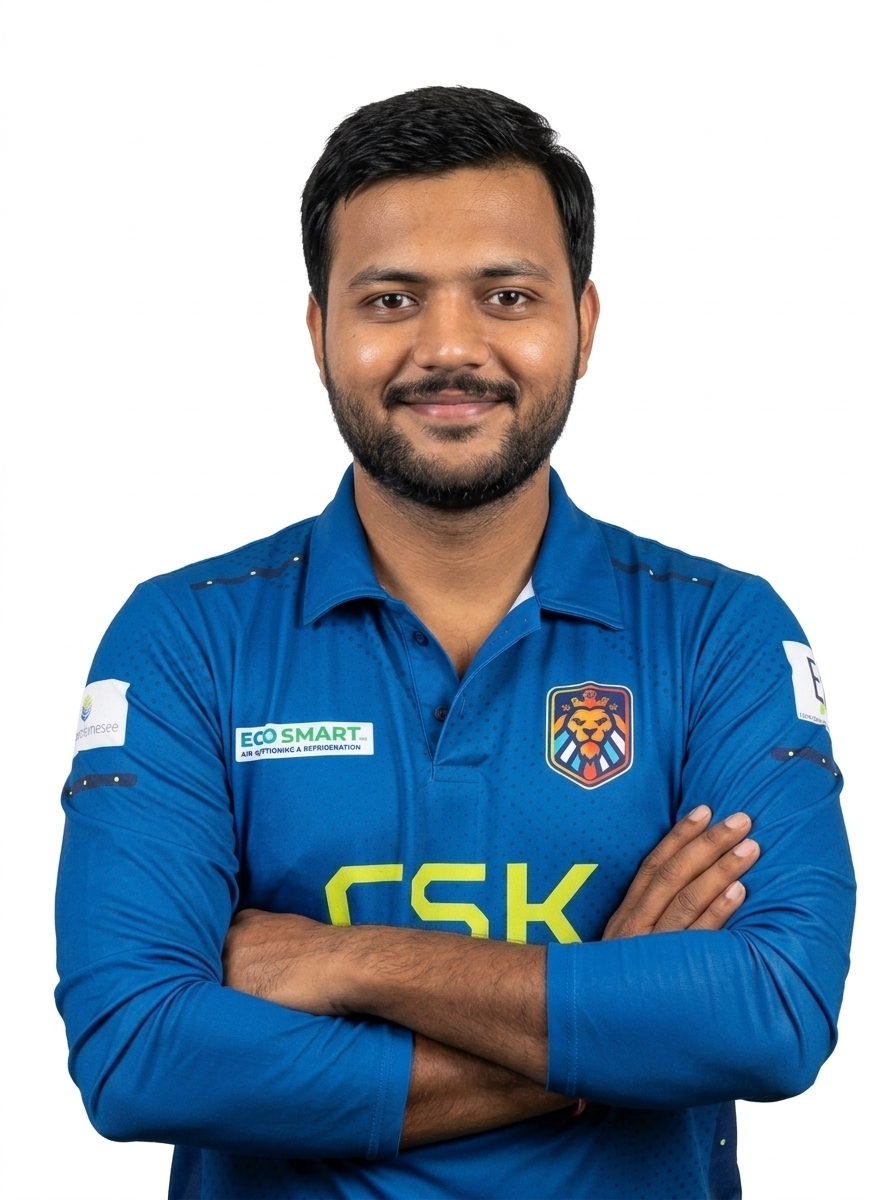
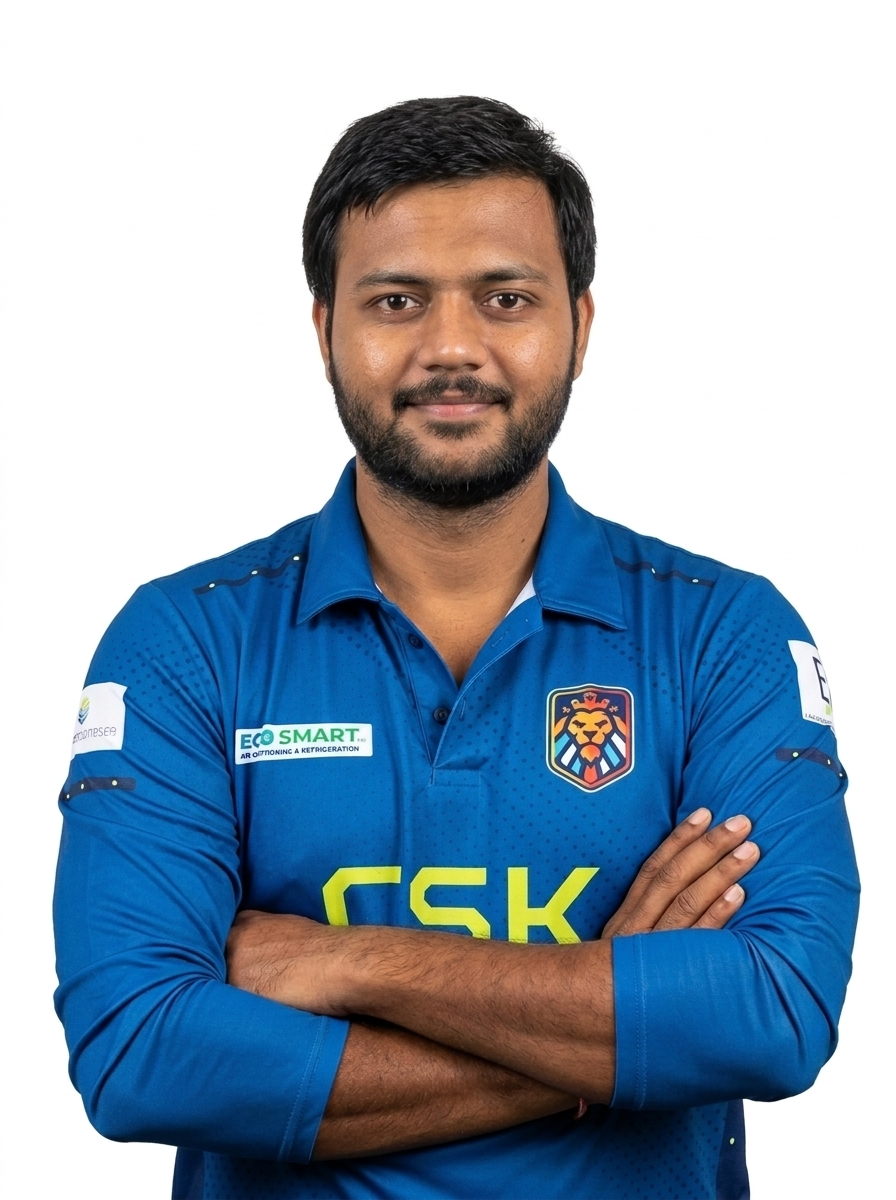
Update Rahul Garg background to studio white and replace Sahil Singh photo with new studio portrait

diff --git a/index.html b/index.html
@@ -418,7 +418,7 @@
             <div class="squad-card-front">
               <div class="squad-card-badge squad-card-badge--c" title="CSK Captain">CAPTAIN</div>
               <div class="squad-player-figure-wrap">
-                <img src="assets/players/real/Rahul-Garg-RoyalBlue.jpg" alt="Rahul Garg" class="squad-player-cutout-img" loading="lazy">
+                <img src="assets/players/real/Rahul-Garg-StudioWhite.jpg" alt="Rahul Garg" class="squad-player-cutout-img" loading="lazy">
               </div>
               <div class="squad-card-bottom-strip">
                 <div class="squad-card-role-col">
